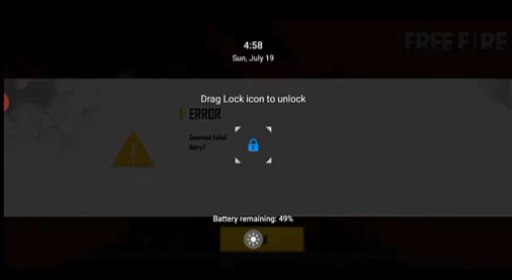
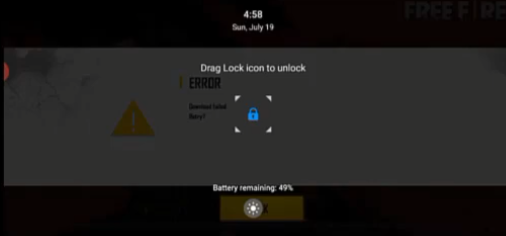
Use the cropped touch-protection capture, and stop letterboxing figures
The before capture is now 506x236 (2.144), matching the after capture's
2.147, so the pair finally compares like for like. Update the width and
height attributes to match.

Cropping exposed a latent layout bug. As a flex item, .media-row img was
resolving its height from the intrinsic height of the file rather than
from the flexed width, so max-height clamped every figure to 280px and
object-fit letterboxed the image inside it. The mode captures were the
worst case: a 281x129 image sitting in a 280px box, 151px of it empty.
It also broke the newly cropped pair, since 236px no longer reached the
clamp while its partner still did, leaving the two frames 44px apart.

Setting height:auto makes the height follow the flexed width. Dead space
across every figure is now zero and each row's frames line up: panel
442x204, touch 442x206, modes 281x129, volume 421x447. The share row
still mixes a landscape sheet with a portrait phone, which is unchanged
and intentional.

diff --git a/index.html b/index.html
@@ -329,6 +329,11 @@
   }
   .media-row img {
     width: 100%; max-height: 280px;
+    /* height:auto is the default, but as a flex item the cross size otherwise
+       resolves from the intrinsic height (e.g. 945px) and then gets clamped to
+       max-height, letterboxing every figure. Stating it makes the height follow
+       the flexed width and the aspect ratio instead. */
+    height: auto;
     object-fit: contain; display: block;
   }
   .media-row img.phone {
@@ -638,7 +643,7 @@
       <div class="media-row pair">
         <figure>
           <div class="img-frame">
-            <img src="assets/game-booster-touch-before.png" alt="Touch protection before the redesign: a grey band across the middle of the screen carrying a small lock icon, an error message and a battery readout" width="512" height="280" loading="lazy">
+            <img src="assets/game-booster-touch-before.png" alt="Touch protection before the redesign: a grey band across the middle of the screen carrying a small lock icon, an error message and a battery readout" width="506" height="236" loading="lazy">
           </div>
           <figcaption>
             <span class="ba">Before</span>
